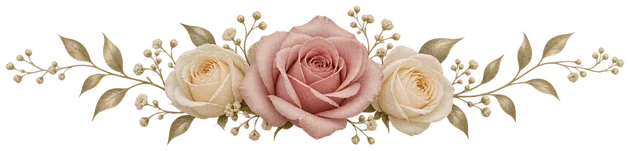
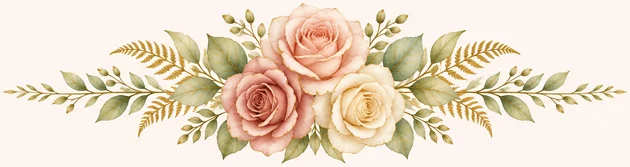
Agrega adornos florales a la invitacion de Johana
Ocho acuarelas generadas con GPT Image: arco sobre el retrato, corona
alrededor del "9", guirnaldas verticales flanqueando la cuenta regresiva,
dos guirnaldas claras dentro del arco vino del itinerario, cenefa al pie
del RSVP, esquina en la tarjeta de Misa, ramita en la de Vestimenta y un
divisor nuevo. Los petalos que caen suben de 10 a 16 en celular.

GPT Image no devuelve alfa, asi que cada adorno se genero sobre el color
exacto del sitio donde vive y despues se corrigio el fondo hacia ese
valor con un peso que decae con la distancia al fondo medido: el fondo
puro recibe la correccion entera y los petalos no reciben nada, asi no
hay halo ni se tinen las flores. Los ocho quedaron con desvio <= 1.

El orden importa: recortar -> escalar -> corregir. Corrigiendo antes de
escalar, el remuestreo Lanczos vuelve a mover el fondo y el adorno se
publica con un parche visible.

Dos bugs encontrados al revisar las capturas:
- El divisor al pie del arco era crema sobre vino, o sea un parche claro
  cosido al arco. Se quito; las dos guirnaldas ya dan esas flores.
- La corona tapaba el "9". La de Yarelia tenia centro transparente, esta
  no, asi que va en z-index negativo para que el numero pase por encima.

Las esquinas van solo en tarjetas de fondo solido: la de Recepcion usa un
degradado donde un adorno blanco se notaria.

Suite de Playwright en verde: 320/390/1280, sin JS, reduced-motion (los
adornos espejados conservan su scaleX(-1)), musica dentro del gesto,
[…]

diff --git a/public/mis-xv-johana/index.html b/public/mis-xv-johana/index.html
@@ -628,6 +628,9 @@ body.is-gated{ overflow:hidden; }
   transition:transform var(--eb-dur) var(--eb-ease);
 }
 .eb-card:hover{ transform:scale(1.02); }
+/* Los adornos de esquina cuelgan 4px fuera del recuadro: sin esto asoman
+   por fuera del borde redondeado y se ve el pico blanco sobre la crema. */
+.eb-card{ overflow:hidden; }
 .eb-card::before, .eb-card::after{
   content:''; position:absolute; width:22px; height:22px; pointer-events:none;
   border:0 solid var(--eb-secondary);
@@ -1144,11 +1147,15 @@ body.is-gated{ overflow:hidden; }
 .eb-datebar__day{ position:relative; }
 .eb-datebar__wreath{
   position:absolute; left:50%; top:52%;
+  /* NEGATIVO, no 0: un hijo posicionado en z-index 0 pinta por encima del
+     texto en linea de su padre, y la corona taparia el numero. Esta corona
+     no tiene centro transparente — GPT Image no devuelve alfa. */
+  z-index:-1;
   /* El span del día mide ~31px: sin max-width:none el global
      img{max-width:100%} aplasta la corona a ese ancho. */
   width:138px; height:auto; max-width:none;
   transform:translate(-50%,-50%);
-  pointer-events:none; z-index:0; opacity:.92;
+  pointer-events:none; opacity:.92;
 }
 /* El número va por encima de la corona, nunca detrás. */
 .eb-datebar__day{ z-index:1; }
@@ -1599,7 +1606,7 @@ body.is-gated{ overflow:hidden; }
   <img src="/mis-xv-johana/assets/orn-divisor.webp"
        srcset="/mis-xv-johana/assets/orn-divisor.webp 630w"
        sizes="(max-width:480px) 76vw, 330px"
-       width="630" height="151" alt="" decoding="async">
+       width="630" height="167" alt="" decoding="async">
 </div>
 
 
@@ -1622,6 +1629,8 @@ body.is-gated{ overflow:hidden; }
   <div class="eb-wrap">
     <p class="eb-crest__name" id="crest-name">Johana Noemí</p>
     <p class="eb-crest__surname">Pahuamba Salinas</p>
+    <img class="eb-crest__arc" src="/mis-xv-johana/assets/orn-arco.webp"
+         width="900" height="493" alt="" loading="lazy" decoding="async">
     <div class="eb-crest__shield">
       <img src="/mis-xv-johana/assets/retrato-hoy.webp"
            srcset="/mis-xv-johana/assets/retrato-hoy.webp 310w,
@@ -1756,7 +1765,7 @@ body.is-gated{ overflow:hidden; }
       <p class="eb-datebar__month">Enero</p>
       <div class="eb-datebar__row">
         <span class="eb-datebar__side">Sábado</span>
-        <span class="eb-datebar__day">9</span>
+        <span class="eb-datebar__day">9<img class="eb-datebar__wreath" src="/mis-xv-johana/assets/orn-corona.webp" width="640" height="603" alt="" loading="lazy" decoding="async"></span>
         <span class="eb-datebar__side">2027</span>
       </div>
     </div>
@@ -1808,6 +1817,8 @@ body.is-gated{ overflow:hidden; }
         <div class="eb-card__ico">
           <svg viewBox="0 0 24 24" fill="none" stroke="currentColor" stroke-width="1.5" stroke-linecap="round" stroke-linejoin="round" aria-hidden="true"><path d="M3 21h18"/><path d="M5 21V7l7-4 7 4v14"/><path d="M9 21v-6h6v6"/><path d="M10 10h4"/><path d="M12 8v4"/></svg>
         </div>
+        <img class="eb-corner eb-corner--tr" src="/mis-xv-johana/assets/orn-esquina.webp"
+             width="460" height="468" alt="" loading="lazy" decoding="async">
         <h3 class="eb-card__name">Misa</h3>
         <p class="eb-when"><span class="eb-when__date">9 Ene</span><span class="eb-when__hour eb-when__hour--tbd" id="misa-hora">Hora por confirmar</span></p>
         <p class="eb-card__venue">Capilla del Señor de la Misericordia</p>
@@ -1852,6 +1863,8 @@ body.is-gated{ overflow:hidden; }
         <div class="eb-card__ico">
           <svg viewBox="0 0 24 24" fill="none" stroke="currentColor" stroke-width="1.5" stroke-linecap="round" stroke-linejoin="round" aria-hidden="true"><path d="M9 3l3 3 3-3"/><path d="M9 3L5.5 5.2a2 2 0 00-.9 2.2L6 13v8h12v-8l1.4-5.6a2 2 0 00-.9-2.2L15 3"/></svg>
         </div>
+        <img class="eb-corner eb-corner--sm eb-corner--tl" src="/mis-xv-johana/assets/orn-ramita.webp"
+             width="360" height="452" alt="" loading="lazy" decoding="async">
         <h3 class="eb-card__name">Vestimenta</h3>
         <p class="eb-card__dress">Elegante</p>
         <p class="eb-card__note">
@@ -1869,6 +1882,14 @@ body.is-gated{ overflow:hidden; }
 <section class="eb-itinerary eb-rv" id="itinerario">
   <div class="eb-wrap">
     <div class="eb-arch">
+      <!-- Estas dos van sobre el vino del arco, no sobre la crema de la
+           pagina: su archivo trae el fondo #71384d exacto, por eso no se
+           ve el recuadro. Si alguna vez se mueven fuera del arco, hay que
+           regenerarlas sobre el fondo nuevo. -->
+      <img class="eb-orn eb-orn--izq" src="/mis-xv-johana/assets/orn-clara.webp"
+           width="200" height="558" alt="" loading="lazy" decoding="async">
+      <img class="eb-orn eb-orn--der" src="/mis-xv-johana/assets/orn-clara.webp"
+           width="200" height="558" alt="" loading="lazy" decoding="async">
       <p class="eb-arch__kicker">El recorrido del día</p>
       <h2 class="eb-arch__title">Itinerario</h2>
 
@@ -1895,9 +1916,6 @@ body.is-gated{ overflow:hidden; }
         </li>
       </ol>
     </div>
-    <div class="eb-bowdiv eb-bowdiv--arch" aria-hidden="true">
-      <img src="/mis-xv-johana/assets/orn-divisor.webp" srcset="/mis-xv-johana/assets/orn-divisor.webp 630w" sizes="(max-width:480px) 70vw, 300px" width="630" height="151" alt="" loading="lazy" decoding="async">
-    </div>
   </div>
 </section>
 
@@ -1908,6 +1926,10 @@ body.is-gated{ overflow:hidden; }
      confirmada; en cuanto se sepa la de la misa, el ancla se mueve.
      ===================================================== -->
 <section class="eb-countdown eb-rv" aria-labelledby="cd-h">
+  <img class="eb-orn eb-orn--izq" src="/mis-xv-johana/assets/orn-vertical.webp"
+       width="200" height="629" alt="" loading="lazy" decoding="async">
+  <img class="eb-orn eb-orn--der" src="/mis-xv-johana/assets/orn-vertical.webp"
+       width="200" height="629" alt="" loading="lazy" decoding="async">
   <div class="eb-wrap">
     <h2 class="eb-script-title" id="cd-h">Solo faltan</h2>
     <div class="eb-cd" id="cd">
@@ -1956,7 +1978,7 @@ body.is-gated{ overflow:hidden; }
 
 
 <div class="eb-bowdiv" aria-hidden="true">
-  <img src="/mis-xv-johana/assets/orn-divisor.webp" srcset="/mis-xv-johana/assets/orn-divisor.webp 630w" sizes="(max-width:480px) 70vw, 300px" width="630" height="151" alt="" loading="lazy" decoding="async">
+  <img src="/mis-xv-johana/assets/orn-divisor.webp" srcset="/mis-xv-johana/assets/orn-divisor.webp 630w" sizes="(max-width:480px) 70vw, 300px" width="630" height="167" alt="" loading="lazy" decoding="async">
 </div>
 
 
@@ -2012,6 +2034,9 @@ body.is-gated{ overflow:hidden; }
       <a href="https://wa.me/525614947760?text=%C2%A1Hola!%20Quiero%20confirmar%20mi%20asistencia%20a%20los%20XV%20A%C3%B1os%20de%20Johana%20Noem%C3%AD%20el%209%20de%20enero%20de%202027." target="_blank" rel="noopener noreferrer">WhatsApp</a>
       o llama al <a href="tel:+525614947760">56&nbsp;1494&nbsp;7760</a>
     </p>
+
+    <img class="eb-orn-cenefa" src="/mis-xv-johana/assets/orn-cenefa.webp"
+         width="1000" height="298" alt="" loading="lazy" decoding="async">
   </div>
 </section>
 
@@ -2346,7 +2371,7 @@ var RSVP_PHONE = EVENTO.telefono;
   if (navigator.connection && navigator.connection.saveData) return;
 
   var field = document.getElementById('petals');
-  var count = window.innerWidth < 600 ? 10 : 18;
+  var count = window.innerWidth < 600 ? 16 : 28;
 
   for (var i = 0; i < count; i++) {
     var el = document.createElement('div');
